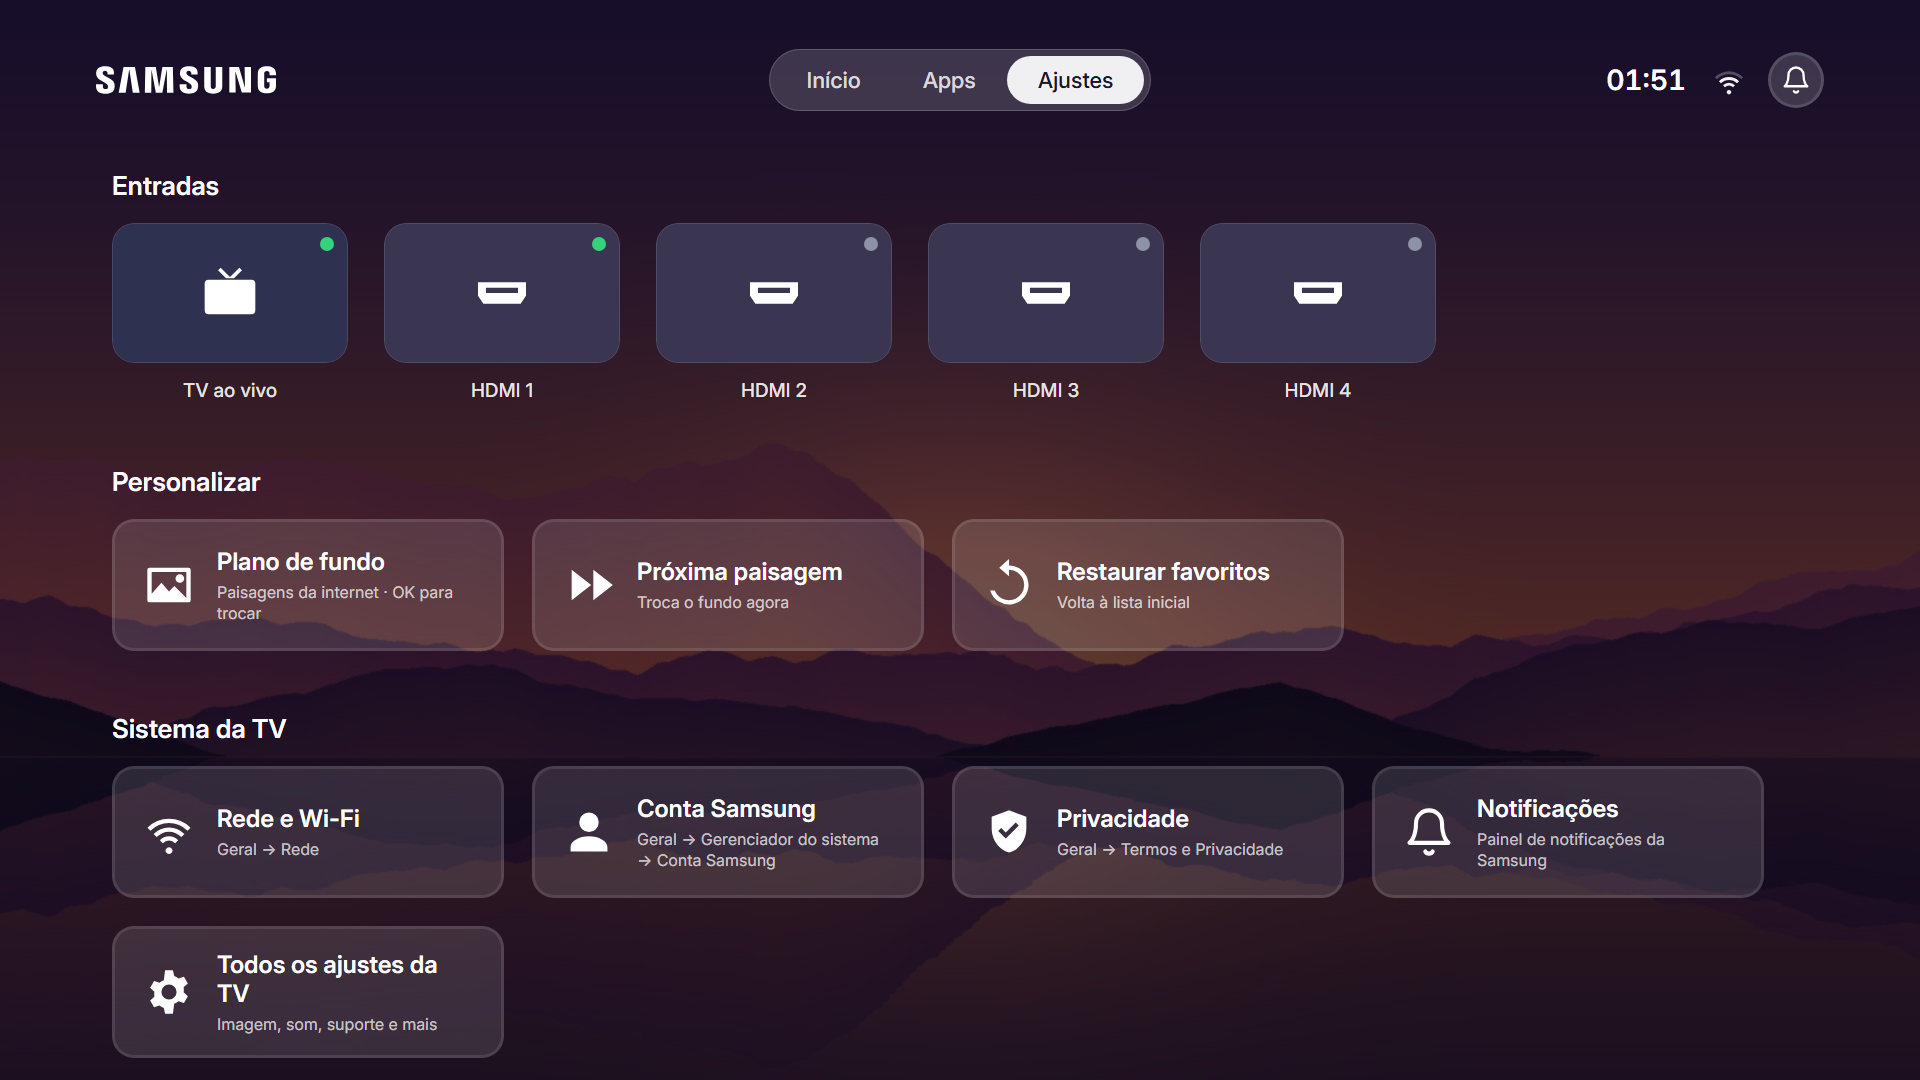
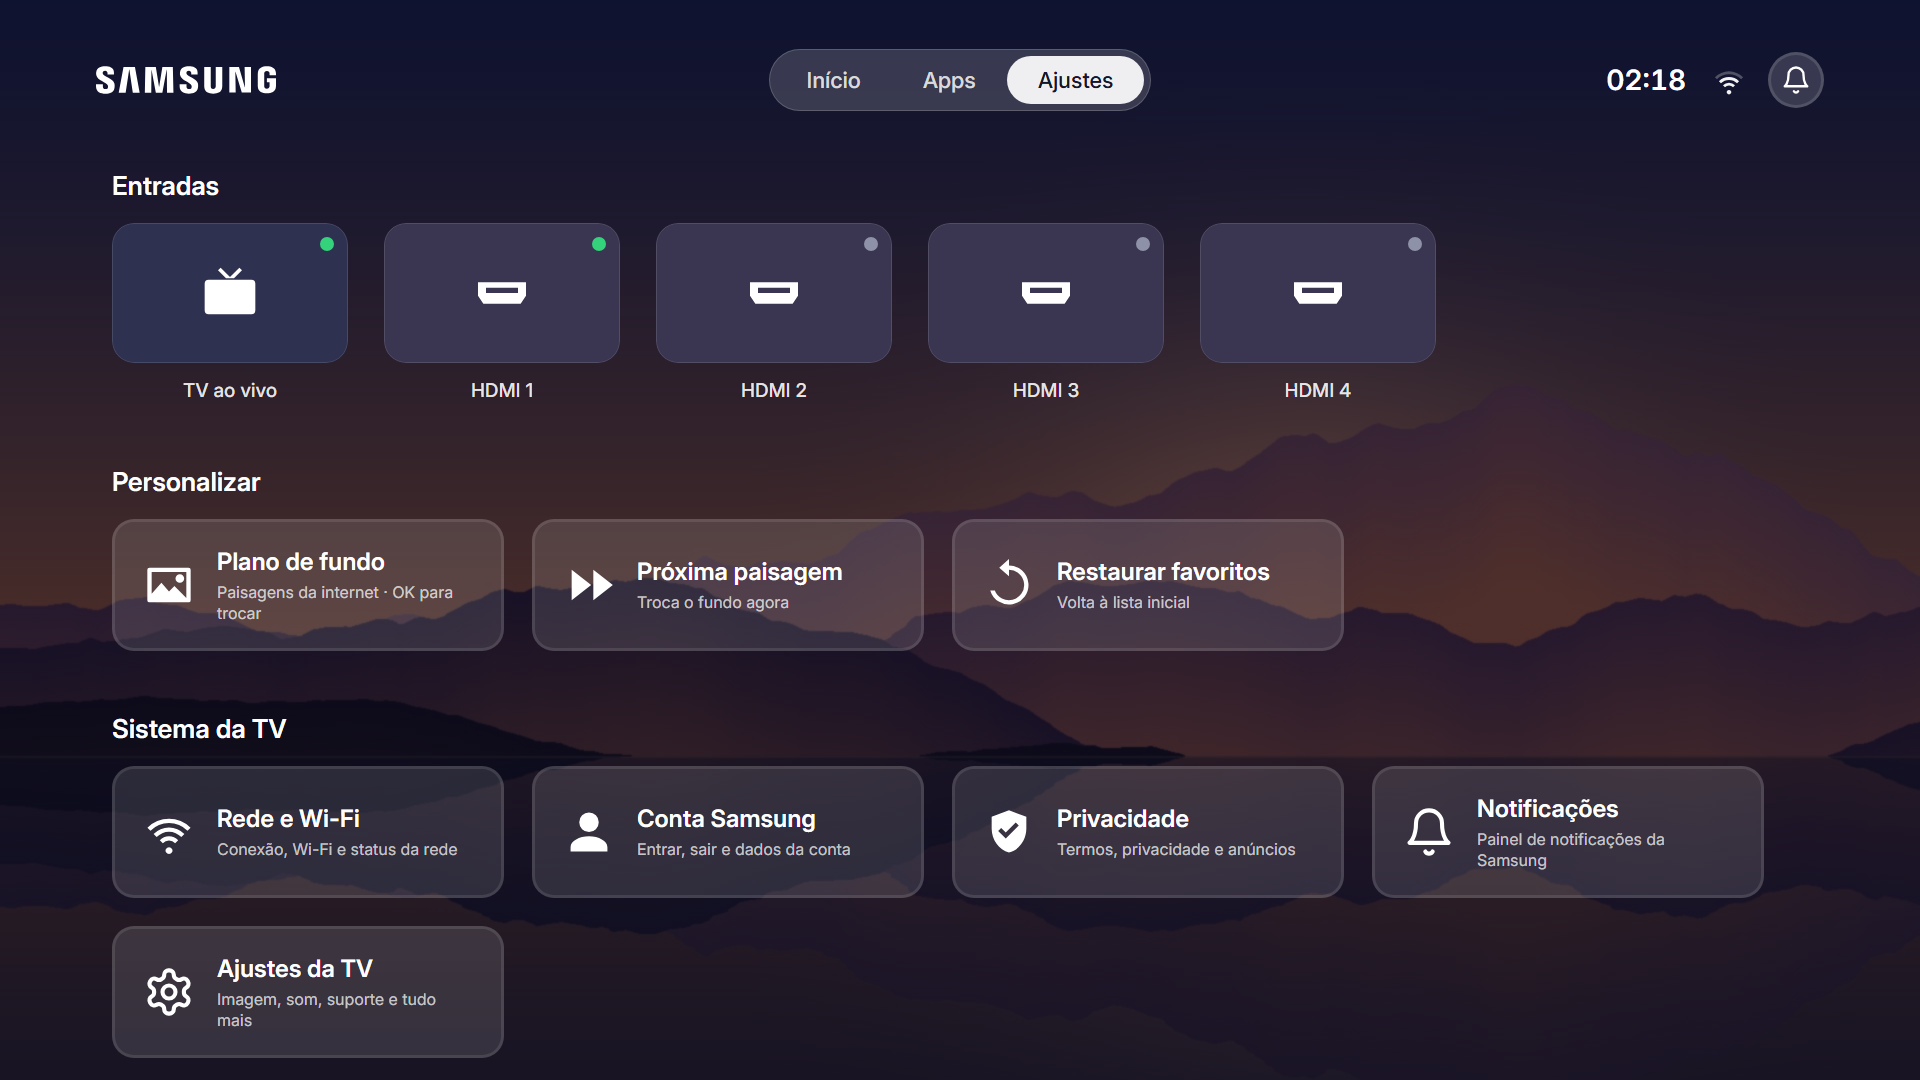
Release 1.3.1: settings shortcuts open directly and quickly
Each card under Sistema da TV now opens its own Samsung app (network,
Samsung account, privacy, settings) instead of the generic settings app
control, which was slow and sometimes landed on org.tizen.menu. The bell
tries com.samsung.tv.notification-app first instead of listing every app
(11 s down to 1 s on a UN60AU8000), a second OK while a screen opens is
ignored, and the gear icon is an outline like the bell.

diff --git a/web/tv.js b/web/tv.js
@@ -1,4 +1,4 @@
-/*
+/*
  * From Free My TV (github.com/simbasjungles/free-my-tv, MIT, see LICENSE-FreeMyTV), with Dusk TV's network and
  * notification calls added.
  *
@@ -333,8 +333,13 @@ var TV = (function () {
     });
   }
 
-  /** Samsung's settings: whichever app answers the platform's "settings" request, else the TV's menu (Tizen 3). */
+  /** Samsung's settings: its settings app, else whichever app answers the platform's "settings" request, else the
+   * TV's menu (Tizen 3). */
   function samsungSettings(done) {
+    samsungFirst(SYSTEM_APPS.settings, function (ok) { if (ok) { if (done) done(true); } else settingsControl(done); });
+  }
+
+  function settingsControl(done) {
     function menu() { samsungLaunch(SAMSUNG_MENU, done); }
     try {
       var control = new window.tizen.ApplicationControl('http://tizen.org/appcontrol/operation/setting', null, null, null, []);
@@ -367,47 +372,78 @@ var TV = (function () {
     } catch (e) { finish(); }
   }
 
+  // Samsung's own settings screens, opened by app id: the generic "settings" app control took seconds on a 2021
+  // AU8000 and sometimes landed on org.tizen.menu instead. Ids from that TV (Tizen 6, `coba` apps); each list is
+  // tried in order and the first one installed opens. Unlisted TVs fall back to the app control.
+  var SYSTEM_APPS = {
+    settings: ['com.samsung.tv.coba.setting'],
+    network: ['com.samsung.tv.coba.setting.networksettings', 'org.tizen.NetworkSetting-Tizen'],
+    account: ['com.samsung.tv.coba.samsungaccount', 'com.samsung.tv.CSAccount'],
+    privacy: ['com.samsung.tv.coba.privacychoice', 'tv6pbVMQFF.PrivacyChoices'],
+    notifications: ['com.samsung.tv.notification-app']
+  };
+
+  /** Opens the first installed app of a list; done(ok, id), with ok false when none is installed or opens. */
+  function samsungFirst(ids, done) {
+    var i = 0;
+    (function next() {
+      if (i >= ids.length) { done(false, ''); return; }
+      var id = ids[i++];
+      try { window.tizen.application.getAppInfo(id); } catch (e) { next(); return; }   // not on this TV
+      samsungLaunch(id, function (ok) { if (ok) done(true, id); else next(); });
+    })();
+  }
+
   // Samsung doesn't document the app behind its notification panel, and its id changes by year. The ids seen on
   // Tizen TVs are tried first, then any installed app whose id names a notification list or center (popups aren't
   // panels). The one that opens is remembered; with none, the TV's settings open instead.
-  var NOTIFY_KEY = 'dusk.notifyApp';
-  var NOTIFY_IDS = ['com.samsung.tv.notification-center', 'org.tizen.notification-center', 'com.samsung.tv.notification',
-    'org.tizen.notification', 'com.samsung.tv.notificationcenter', 'org.tizen.tv-notification'];
+  var NOTIFY_KEY = 'dusk.notifyApp2';
+  var NOTIFY_IDS = SYSTEM_APPS.notifications.concat(['com.samsung.tv.notification-center', 'org.tizen.notification-center',
+    'com.samsung.tv.notification', 'org.tizen.notification', 'com.samsung.tv.notificationcenter', 'org.tizen.tv-notification']);
 
-  function samsungNotifyCandidates(done) {
+  /** The known ids, the last one that opened first. */
+  function samsungNotifyKnown() {
     var out = [];
     try { var saved = localStorage.getItem(NOTIFY_KEY); if (saved) out.push(saved); } catch (e) {}
     NOTIFY_IDS.forEach(function (id) { if (out.indexOf(id) < 0) out.push(id); });
+    return out;
+  }
+
+  /** Other installed apps that look like a notification panel. Listing every app took ~10 s on a 2021 AU8000, so
+   * this runs only when no known id opens. */
+  function samsungNotifyScan(done) {
+    var out = samsungNotifyKnown();
     try {
       window.tizen.application.getAppsInfo(function (list) {
         var found = [];
         for (var i = 0; i < list.length; i++) {
           var id = list[i].id || '';
-          if (/notif/i.test(id) && !/popup|syspopup|service$|daemon/i.test(id) && out.indexOf(id) < 0) found.push(id);
+          if (/notif/i.test(id) && !/popup|service|daemon/i.test(id) && out.indexOf(id) < 0) found.push(id);
         }
         // "center", "list" and "panel" first: those are the full panel, not one notice.
         found.sort(function (a, b) { return (/center|centre|list|panel/i.test(b) ? 1 : 0) - (/center|centre|list|panel/i.test(a) ? 1 : 0); });
-        done(out.concat(found));
-      }, function () { done(out); });
+        done(found);
+      }, function () { done([]); });
     } catch (e) {
-      done(out);
+      done([]);
     }
   }
 
   /** Opens Samsung's notification panel; done(ok, how) where how is the app id, or 'settings' for the fallback. */
   function samsungNotifications(done) {
-    samsungNotifyCandidates(function (ids) {
-      var i = 0;
-      (function next() {
-        if (i >= ids.length) { samsungSettings(function (ok) { if (done) done(ok, 'settings'); }); return; }
-        var id = ids[i++];
-        try { window.tizen.application.getAppInfo(id); } catch (e) { next(); return; }   // not on this TV
-        samsungLaunch(id, function (ok) {
-          if (!ok) { next(); return; }
-          try { localStorage.setItem(NOTIFY_KEY, id); } catch (e) {}
-          if (done) done(true, id);
+    function opened(ok, id) {
+      if (!ok) return false;
+      try { localStorage.setItem(NOTIFY_KEY, id); } catch (e) {}
+      if (done) done(true, id);
+      return true;
+    }
+    samsungFirst(samsungNotifyKnown(), function (ok, id) {
+      if (opened(ok, id)) return;
+      samsungNotifyScan(function (found) {
+        samsungFirst(found, function (ok2, id2) {
+          if (!opened(ok2, id2)) samsungSettings(function (ok3) { if (done) done(ok3, 'settings'); });
         });
-      })();
+      });
     });
   }
 
@@ -601,6 +637,19 @@ var TV = (function () {
         if (wired.state === 'connected') done({type: 'ethernet', bars: 4, ssid: ''});
         else if (wifi.state === 'connected') done({type: 'wifi', bars: 4, ssid: wifi.ssid || ''});
         else done({type: 'none', bars: 0, ssid: ''});
+      });
+    },
+
+    /**
+     * One of the TV's settings screens ('network', 'account', 'privacy'), opened directly; done(ok, direct) where
+     * direct is false when only the main settings could open.
+     */
+    system: function (kind, done) {
+      var self2 = this;
+      if (!samsung) { if (done) setTimeout(function () { done(true, true); }, 0); return; }
+      samsungFirst(SYSTEM_APPS[kind] || [], function (ok) {
+        if (ok) { if (done) done(true, true); return; }
+        self2.settings(function (ok2) { if (done) done(ok2, false); });
       });
     },
 

diff --git a/web/home.js b/web/home.js
@@ -48,7 +48,9 @@
     network: '<svg viewBox="0 0 48 48"><path d="M24 38a3.2 3.2 0 1 0 0.01 0zM15.5 31.5a12 12 0 0 1 17 0l-2.8 2.8a8 8 0 0 0-11.4 0zM9.8 25.8a20 20 0 0 1 28.4 0l-2.8 2.8a16 16 0 0 0-22.8 0zM4.1 20.1a28 28 0 0 1 39.8 0l-2.8 2.8a24 24 0 0 0-34.2 0z" fill="#fff"/></svg>',
     account: '<svg viewBox="0 0 48 48"><path d="M24 6a9 9 0 1 1 0 18 9 9 0 0 1 0-18zm0 22c9 0 17 4.4 17 10v4H7v-4c0-5.6 8-10 17-10z" fill="#fff"/></svg>',
     privacy: '<svg viewBox="0 0 48 48"><path d="M24 4l16 6v11c0 10.3-6.8 19.6-16 22-9.2-2.4-16-11.7-16-22V10zm-3 26l12-12-2.8-2.8L21 24.4l-4.2-4.2L14 23z" fill="#fff"/></svg>',
-    gear: '<svg viewBox="0 0 48 48"><path d="M27.6 4l1.2 5.2a15 15 0 0 1 3.9 2.3l5.1-1.6 3.6 6.2-3.9 3.6a15 15 0 0 1 0 4.6l3.9 3.6-3.6 6.2-5.1-1.6a15 15 0 0 1-3.9 2.3L27.6 44h-7.2l-1.2-5.2a15 15 0 0 1-3.9-2.3l-5.1 1.6-3.6-6.2 3.9-3.6a15 15 0 0 1 0-4.6l-3.9-3.6 3.6-6.2 5.1 1.6a15 15 0 0 1 3.9-2.3L20.4 4zM24 17a7 7 0 1 0 0 14 7 7 0 0 0 0-14z" fill="#fff"/></svg>',
+    // An outlined gear (after Lucide's "settings", ISC), drawn like the bell.
+    gear: '<svg viewBox="0 0 24 24"><path d="M12.22 2h-.44a2 2 0 0 0-2 2v.18a2 2 0 0 1-1 1.73l-.43.25a2 2 0 0 1-2 0l-.15-.08a2 2 0 0 0-2.73.73l-.22.38a2 2 0 0 0 .73 2.73l.15.1a2 2 0 0 1 1 1.72v.51a2 2 0 0 1-1 1.74l-.15.09a2 2 0 0 0-.73 2.73l.22.38a2 2 0 0 0 2.73.73l.15-.08a2 2 0 0 1 2 0l.43.25a2 2 0 0 1 1 1.73V20a2 2 0 0 0 2 2h.44a2 2 0 0 0 2-2v-.18a2 2 0 0 1 1-1.73l.43-.25a2 2 0 0 1 2 0l.15.08a2 2 0 0 0 2.73-.73l.22-.39a2 2 0 0 0-.73-2.73l-.15-.08a2 2 0 0 1-1-1.74v-.5a2 2 0 0 1 1-1.74l.15-.09a2 2 0 0 0 .73-2.73l-.22-.38a2 2 0 0 0-2.73-.73l-.15.08a2 2 0 0 1-2 0l-.43-.25a2 2 0 0 1-1-1.73V4a2 2 0 0 0-2-2z" fill="none" stroke="#fff" stroke-width="1.9" stroke-linecap="round" stroke-linejoin="round"/>' +
+      '<circle cx="12" cy="12" r="3" fill="none" stroke="#fff" stroke-width="1.9"/></svg>',
     bellcard: '<svg viewBox="0 0 24 24"><path d="M6 8a6 6 0 0 1 12 0c0 7 3 9 3 9H3s3-2 3-9" fill="none" stroke="#fff" stroke-width="1.9" stroke-linecap="round" stroke-linejoin="round"/>' +
       '<path d="M10.3 21a1.94 1.94 0 0 0 3.4 0" fill="none" stroke="#fff" stroke-width="1.9" stroke-linecap="round" stroke-linejoin="round"/></svg>',
     next: '<svg viewBox="0 0 48 48"><path d="M8 10l18 14L8 38zm20 0l18 14-18 14z" fill="#fff"/></svg>',
@@ -373,9 +375,19 @@
     return el;
   }
 
-  function openTvSettings(where) {
-    toast(where ? 'Abrindo Ajustes da TV → ' + where : 'Abrindo Ajustes da TV');
-    TV.settings(function (ok) { if (!ok) toast('Não deu para abrir os Ajustes da TV'); });
+  // A second OK while the TV is still opening a screen would open it twice (or the wrong one): one at a time.
+  var opening = 0;
+
+  function openTvSettings(kind, name, where) {
+    if (Date.now() - opening < 3000) return;
+    opening = Date.now();
+    toast('Abrindo ' + name + '…');
+    var finish = function (ok, direct) {
+      opening = 0;
+      if (!ok) toast('Não deu para abrir ' + name);
+      else if (!direct && where) toast('Nos Ajustes, vá em ' + where);
+    };
+    if (kind) TV.system(kind, finish); else TV.settings(function (ok) { finish(ok, true); });
   }
 
   function drawSettings() {
@@ -407,13 +419,15 @@
     // Samsung lets apps open its settings, but not a given page: the subtitle says where to go from there.
     var system = $('#settings .system');
     system.innerHTML = '';
-    system.appendChild(card(SVG.network, 'Rede e Wi-Fi', 'Geral → Rede', function () { openTvSettings('Geral → Rede'); }));
-    system.appendChild(card(SVG.account, 'Conta Samsung', 'Geral → Gerenciador do sistema → Conta Samsung',
-        function () { openTvSettings('Geral → Gerenciador do sistema → Conta Samsung'); }));
-    system.appendChild(card(SVG.privacy, 'Privacidade', 'Geral → Termos e Privacidade',
-        function () { openTvSettings('Geral → Termos e Privacidade'); }));
+    system.appendChild(card(SVG.network, 'Rede e Wi-Fi', 'Conexão, Wi-Fi e status da rede',
+        function () { openTvSettings('network', 'Rede e Wi-Fi', 'Geral → Rede'); }));
+    system.appendChild(card(SVG.account, 'Conta Samsung', 'Entrar, sair e dados da conta',
+        function () { openTvSettings('account', 'Conta Samsung', 'Geral → Gerenciador do sistema → Conta Samsung'); }));
+    system.appendChild(card(SVG.privacy, 'Privacidade', 'Termos, privacidade e anúncios',
+        function () { openTvSettings('privacy', 'Privacidade', 'Geral → Termos e Privacidade'); }));
     system.appendChild(card(SVG.bellcard, 'Notificações', 'Painel de notificações da Samsung', openNotifications));
-    system.appendChild(card(SVG.gear, 'Todos os ajustes da TV', 'Imagem, som, suporte e mais', function () { openTvSettings(''); }));
+    system.appendChild(card(SVG.gear, 'Ajustes da TV', 'Imagem, som, suporte e tudo mais',
+        function () { openTvSettings('', 'os Ajustes da TV', ''); }));
 
     if (aboutText) { $('#settings .about').textContent = aboutText; return; }
     TV.about(function (a) {

diff --git a/README.md b/README.md
@@ -7,7 +7,7 @@
 Paisagens que mudam sozinhas, seus apps com os logos de verdade, relógio, Wi-Fi e notificações. Sem propaganda,
 sem fileiras patrocinadas.
 
-![Versão](https://img.shields.io/badge/versão-1.3.0-8CB2F3?style=for-the-badge)
+![Versão](https://img.shields.io/badge/versão-1.3.1-8CB2F3?style=for-the-badge)
 ![Samsung Tizen](https://img.shields.io/badge/Samsung-Tizen%203.0%2B-1428A0?style=for-the-badge&logo=samsung&logoColor=white)
 ![Testado em](https://img.shields.io/badge/feito%20para-UN60AU8000%20(2021)-0F172A?style=for-the-badge)
 ![Licença MIT](https://img.shields.io/badge/licença-MIT-2EA44F?style=for-the-badge)
@@ -251,10 +251,9 @@ dusk-tv-samsung/
 
 ## ⚠ Limites do Tizen
 
-- **Notificações:** a Samsung não divulga qual app abre o painel de notificações. O sino tenta os nomes conhecidos
-  e procura um app de notificações na TV. Se não achar nenhum, abre os Ajustes.
-- **Conta, Privacidade e Rede:** um app só consegue abrir os Ajustes no começo, não numa página específica. Por
-  isso cada cartão mostra o caminho a seguir lá dentro.
+- **Notificações, Rede, Conta e Privacidade:** a Samsung não documenta os apps dessas telas. O Dusk abre direto
+  os que existem na UN60AU8000 (Tizen 6). Em outros modelos, se algum não existir, ele abre os Ajustes da TV e
+  mostra o caminho a seguir lá dentro.
 - **Botão Home:** continua abrindo o Smart Hub. Por segurança, ele não é remapeado.
 - **Modo Desenvolvedor:** precisa continuar ligado para o app funcionar.
 

diff --git a/CHANGELOG.md b/CHANGELOG.md
@@ -1,5 +1,25 @@
 # Changelog
 
+## [1.3.1] - 2026-10-28
+
+### Corrigido
+- **As opções de "Sistema da TV" em Ajustes abrem direto, rápido e no lugar certo.** Antes, todas passavam pelo
+  pedido genérico de "abrir ajustes", que demorava, às vezes falhava e às vezes caía no menu errado
+  (`org.tizen.menu`). Agora cada cartão abre o app da própria tela (tempos medidos na UN60AU8000):
+  - Rede e Wi-Fi: `com.samsung.tv.coba.setting.networksettings`, em cerca de 0,9 s.
+  - Conta Samsung: `com.samsung.tv.coba.samsungaccount`, em cerca de 1,5 s.
+  - Privacidade: `com.samsung.tv.coba.privacychoice`, em cerca de 2,2 s.
+  - Ajustes da TV: `com.samsung.tv.coba.setting`, em cerca de 1,3 s.
+  - Em TVs sem algum desses apps, abre os Ajustes e mostra o caminho a seguir.
+- **Notificações (cartão e sino) abrem em cerca de 1 s.** Antes levavam 11 s, porque o app listava todos os apps da
+  TV antes. Agora ele tenta direto o `com.samsung.tv.notification-app` e só procura na lista se esse não existir.
+- **Um segundo OK enquanto uma tela está abrindo é ignorado.** Antes, ele podia abrir a tela duas vezes ou a tela
+  errada.
+
+### Visual
+- Novo ícone de engrenagem, em contorno, no mesmo estilo do sino.
+- "Todos os ajustes da TV" virou "Ajustes da TV", que cabe numa linha só.
+
 ## [1.3.0] - 2026-10-28
 
 ### Novo
